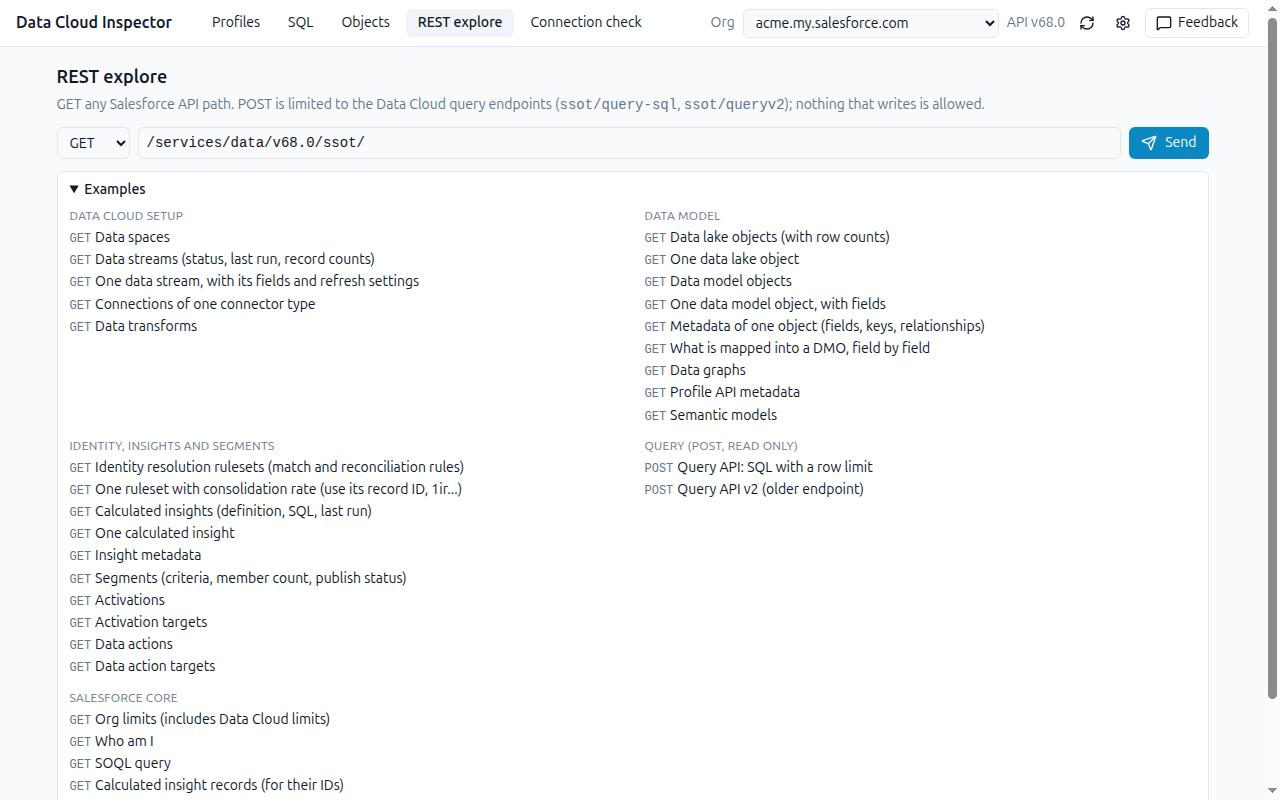
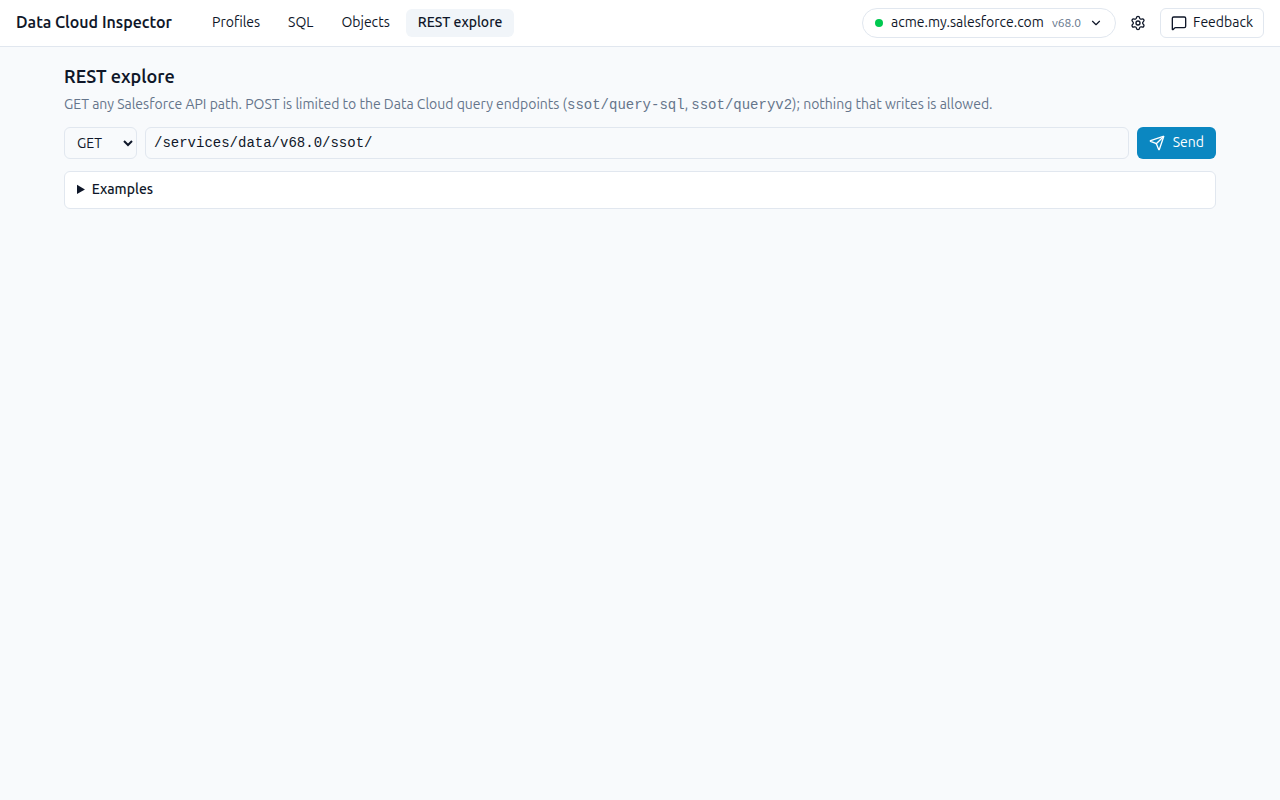
Connection pill, DMO links by API name, folded examples
Feedback #81, #82, #83.
- #83: the org picker and the connection check move into a connection
  pill on the right of the header, as in Marketing Cloud Toolkit.
- #81: DMOs open /lightning/n/standard-DataModel?c__objectApiName=<name>
  (URL from the user; checked live).
- #82: REST explore examples start folded, fold again after a response,
  and only fill in the request.
Store screenshots retaken with the new header.

diff --git a/src/components/ConnectionMenu.vue b/src/components/ConnectionMenu.vue
@@ -1,0 +1,73 @@
+<script setup>
+// Top-bar connection pill and menu, as in Marketing Cloud Toolkit (feedback #83): the org in
+// use with a status dot, the other logged-in orgs, Find orgs again, and the connection check.
+import { ref, computed, onMounted, onUnmounted } from 'vue'
+import { useRouter } from 'vue-router'
+import { ChevronDown, Check, RefreshCw, Stethoscope } from 'lucide-vue-next'
+import { useOrg, loadOrgs, selectOrg, currentOrg } from '../app/useOrg.js'
+
+const org = useOrg()
+const router = useRouter()
+const open = ref(false)
+const root = ref(null)
+
+const status = computed(() => {
+  if (org.loading) return { dot: 'bg-amber-400', text: 'Looking for orgs…' }
+  if (!org.orgs.length) return { dot: 'bg-red-500', text: 'Not connected' }
+  if (org.error) return { dot: 'bg-red-500', text: currentOrg()?.host || 'Not connected' }
+  if (!org.version) return { dot: 'bg-amber-400', text: currentOrg()?.host || 'Connecting…' }
+  return { dot: 'bg-green-500', text: currentOrg()?.host }
+})
+
+function pick(orgId) {
+  selectOrg(orgId)
+  open.value = false
+}
+
+function check() {
+  open.value = false
+  router.push('/connection')
+}
+
+const onDoc = (e) => { if (open.value && root.value && !root.value.contains(e.target)) open.value = false }
+const onKey = (e) => { if (e.key === 'Escape') open.value = false }
+onMounted(() => { document.addEventListener('mousedown', onDoc); document.addEventListener('keydown', onKey) })
+onUnmounted(() => { document.removeEventListener('mousedown', onDoc); document.removeEventListener('keydown', onKey) })
+</script>
+
+<template>
+  <div ref="root" class="relative">
+    <button
+      class="inline-flex items-center gap-2 px-3 py-1 rounded-full border text-sm hover:bg-accent max-w-80"
+      :aria-expanded="open" title="Connection" @click="open = !open"
+    >
+      <span :class="['w-2 h-2 rounded-full shrink-0', status.dot]" />
+      <span class="truncate">{{ status.text }}</span>
+      <span v-if="org.version" class="text-muted-foreground text-xs shrink-0">v{{ org.version }}</span>
+      <ChevronDown class="w-3.5 h-3.5 shrink-0" />
+    </button>
+    <div v-if="open" class="absolute right-0 mt-1 w-96 rounded-md border bg-card shadow-lg z-40 text-sm">
+      <div class="px-3 pt-3 pb-1 text-xs text-muted-foreground">Logged-in orgs in this browser</div>
+      <p v-if="!org.orgs.length" class="px-3 pb-2 text-muted-foreground">
+        None found. Log in to your org (the one with Data Cloud) in this browser, then Find orgs again.
+      </p>
+      <button
+        v-for="o in org.orgs" :key="o.orgId"
+        class="w-full text-left px-3 py-1.5 flex items-center gap-2 hover:bg-accent" @click="pick(o.orgId)"
+      >
+        <Check :class="['w-4 h-4 shrink-0', o.orgId === org.orgId ? '' : 'invisible']" />
+        <span class="truncate">{{ o.host }}</span>
+        <span class="ml-auto font-mono text-xs text-muted-foreground">{{ o.orgId }}</span>
+      </button>
+      <p v-if="org.error" class="px-3 py-1 text-xs text-destructive">{{ org.error }}</p>
+      <div class="border-t mt-1 p-1 flex flex-col">
+        <button class="px-2 py-1.5 rounded flex items-center gap-2 hover:bg-accent" @click="loadOrgs()">
+          <RefreshCw :class="['w-4 h-4', { 'animate-spin': org.loading }]" /> Find orgs again
+        </button>
+        <button class="px-2 py-1.5 rounded flex items-center gap-2 hover:bg-accent" @click="check">
+          <Stethoscope class="w-4 h-4" /> Run the connection check
+        </button>
+      </div>
+    </div>
+  </div>
+</template>

diff --git a/src/app/App.vue b/src/app/App.vue
@@ -1,10 +1,11 @@
 <script setup>
 import { onMounted, ref } from 'vue'
 import { useRoute } from 'vue-router'
-import { RefreshCw, MessageSquare, Settings } from 'lucide-vue-next'
+import { MessageSquare, Settings } from 'lucide-vue-next'
+import ConnectionMenu from '../components/ConnectionMenu.vue'
 import FeedbackModal from '../components/feedback/FeedbackModal.vue'
 import { NAV } from './router.js'
-import { useOrg, loadOrgs, selectOrg } from './useOrg.js'
+import { useOrg, loadOrgs } from './useOrg.js'
 
 const org = useOrg()
 const route = useRoute()
@@ -24,19 +25,7 @@ onMounted(loadOrgs)
         >{{ item.label }}</RouterLink>
       </nav>
       <div class="ml-auto flex items-center gap-2 text-sm">
-        <label for="org" class="text-muted-foreground">Org</label>
-        <select
-          id="org" class="border rounded-md px-2 py-1 bg-background min-w-64"
-          :value="org.orgId" :disabled="!org.orgs.length"
-          @change="selectOrg($event.target.value)"
-        >
-          <option v-if="!org.orgs.length" :value="null">No logged-in org found</option>
-          <option v-for="o in org.orgs" :key="o.orgId" :value="o.orgId">{{ o.host }}</option>
-        </select>
-        <span v-if="org.version" class="text-muted-foreground">API v{{ org.version }}</span>
-        <button class="p-1.5 rounded-md hover:bg-accent" title="Find logged-in orgs again" @click="loadOrgs">
-          <RefreshCw class="w-4 h-4" :class="{ 'animate-spin': org.loading }" />
-        </button>
+        <ConnectionMenu />
         <RouterLink to="/settings" class="p-1.5 rounded-md hover:bg-accent" active-class="bg-accent" title="Settings"><Settings class="w-4 h-4" /></RouterLink>
         <button class="inline-flex items-center gap-1.5 px-2.5 py-1 rounded-md border hover:bg-accent" title="Report a problem or send an idea" @click="feedback = true">
           <MessageSquare class="w-4 h-4" /> Feedback
@@ -46,7 +35,7 @@ onMounted(loadOrgs)
 
     <div v-if="!org.loading && !org.orgs.length" class="m-4 p-4 rounded-md border bg-card text-sm">
       No Salesforce session found. Log in to your org (the one with Data Cloud) in this browser,
-      then click the refresh button. Data Cloud Inspector uses that login and only reads.
+      then choose Find orgs again in the connection menu (top right). Data Cloud Inspector uses that login and only reads.
     </div>
     <div v-else-if="org.error" class="m-4 p-3 rounded-md border border-destructive text-sm">
       Could not reach the org: {{ org.error }}

diff --git a/src/views/ObjectsView.vue b/src/views/ObjectsView.vue
@@ -3,7 +3,7 @@ import { ref, reactive, computed, watch, onMounted } from 'vue'
 import { useRoute, useRouter } from 'vue-router'
 import { RefreshCw, Play, Copy, FileText, Hash, Key, ExternalLink } from 'lucide-vue-next'
 import { useOrg, currentOrg } from '../app/useOrg.js'
-import { recordUrl, dmoTabUrl } from '../lib/links.js'
+import { recordUrl, dmoUrl } from '../lib/links.js'
 import { useCatalog, ensureCatalog, ensureStreams, ensureAllMappings, ensureRecordIds, orgCall } from '../app/useCatalog.js'
 import { filterObjects, selectFor, objectMarkdown } from '../lib/catalog.js'
 import { loadMappings } from '../lib/lineage.js'
@@ -27,11 +27,10 @@ const feeds = ref(null) // DMOs a DLO maps to
 onMounted(() => { ensureCatalog() })
 watch(() => route.params.name, (n) => { if (n) ensureRecordIds() }, { immediate: true })
 
-// DLOs and CIs open their record page; DMO record pages have no URL we can build, so
-// DMOs open the Data Model Objects tab.
+// DLOs and CIs open their record page; DMOs open in the Data Model tab by API name.
 function sfUrl(o) {
   const host = currentOrg()?.host
-  if (o.kind === 'DMO') return dmoTabUrl(host)
+  if (o.kind === 'DMO') return dmoUrl(host, o.name)
   const id = catalog.recordIds?.[o.name]
   return id ? recordUrl(host, id) : null
 }
@@ -173,7 +172,7 @@ const tabBtn = (t) => ['px-3 py-1.5 text-sm border-b-2', tab.value === t ? 'bord
             </div>
           </div>
           <div class="ml-auto flex flex-wrap gap-2">
-            <a v-if="sfUrl(selected)" :class="btn" :href="sfUrl(selected)" target="_blank" rel="noopener" :title="selected.kind === 'DMO' ? 'Opens the Data Model Objects tab (a DMO page has no direct link)' : 'Open this object in Data Cloud'"><ExternalLink class="w-4 h-4" /> Open in Salesforce</a>
+            <a v-if="sfUrl(selected)" :class="btn" :href="sfUrl(selected)" target="_blank" rel="noopener"  title="Open this object in Data Cloud"><ExternalLink class="w-4 h-4" /> Open in Salesforce</a>
             <button :class="btn" @click="query(selected)"><Play class="w-4 h-4" /> Query</button>
             <button :class="btn" :disabled="counts[selected.name] === 'counting'" @click="count(selected)"><Hash class="w-4 h-4" /> {{ counts[selected.name] === 'counting' ? 'Counting…' : 'Count rows' }}</button>
             <button :class="btn" @click="copy(selectFor(selected), 'the SELECT')"><Copy class="w-4 h-4" /> Copy SELECT</button>

diff --git a/src/views/ExploreView.vue b/src/views/ExploreView.vue
@@ -16,7 +16,9 @@ const busy = ref(false)
 const showShape = ref(false)
 const pathInput = ref(null)
 
-// Fill the form from an example; a NAME placeholder is selected for typing over.
+// Fill the form from an example without sending it (feedback #82); a NAME placeholder is
+// selected for typing over.
+const examplesOpen = ref(false)
 function useExample(item) {
   if (!org.version) return
   method.value = item.method || 'GET'
@@ -26,7 +28,6 @@ function useExample(item) {
   requestAnimationFrame(() => {
     pathInput.value?.focus()
     if (at >= 0) pathInput.value?.setSelectionRange(at, at + 4)
-    else sendRequest()
   })
 }
 
@@ -49,6 +50,7 @@ async function sendRequest() {
   }
   busy.value = true
   result.value = await sf(org.orgId, path.value.trim(), { method: method.value, body: parsed })
+  examplesOpen.value = false
   busy.value = false
 }
 
@@ -84,7 +86,7 @@ const text = computed(() => {
       v-if="method === 'POST'" v-model="body" rows="5" spellcheck="false"
       class="w-full border rounded-md p-2 bg-background font-mono text-xs"
     />
-    <details class="border rounded-md bg-card" :open="!result">
+    <details class="border rounded-md bg-card" :open="examplesOpen" @toggle="examplesOpen = $event.target.open">
       <summary class="px-3 py-2 cursor-pointer text-sm font-medium">Examples</summary>
       <div class="px-3 pb-3 grid md:grid-cols-2 gap-x-6 gap-y-3">
         <div v-for="g in EXAMPLES" :key="g.group">
@@ -98,7 +100,7 @@ const text = computed(() => {
           </ul>
         </div>
       </div>
-      <p class="px-3 pb-3 text-xs text-muted-foreground">Click one to send it. Examples with NAME in the path select that word for you to replace first, then press Send.</p>
+      <p class="px-3 pb-3 text-xs text-muted-foreground">Click one to fill in the request, then press Send. Where the path has NAME, that word is selected for you to replace.</p>
     </details>
     <div v-if="result" class="space-y-2">
       <div class="flex items-center gap-3 text-sm">

diff --git a/src/lib/links.js b/src/lib/links.js
@@ -1,8 +1,8 @@
 // Links into the org's own UI. https://<my domain>/<record id> redirects to the record's
 // Lightning page; checked on a live org (2026-10-22) for data streams (1ds), DLOs (1dl),
 // calculated insights (0kX), segments (1sg), identity resolution rulesets (1ir),
-// activation targets (85U) and CRM records. DMO IDs (0gj) only reach the home page, so DMOs
-// open the Data Model Objects tab.
+// activation targets (85U) and CRM records. DMO IDs (0gj) only reach the home page; a DMO
+// opens in the Data Model tab by API name (URL from the user, feedback #81).
 
 const PREFIXES = {
   '1ds': 'Data stream',
@@ -31,8 +31,12 @@ export function recordUrl(host, id) {
   return host && id ? `https://${host}/${id}` : null
 }
 
-export function dmoTabUrl(host) {
-  return host ? `https://${host.replace(/\.my\.salesforce\.com$/, '.lightning.force.com')}/lightning/o/MktDataModelObject/home` : null
+export function lightningHost(host) {
+  return String(host || '').replace(/\.my\.salesforce\.com$/, '.lightning.force.com')
+}
+
+export function dmoUrl(host, apiName) {
+  return host && apiName ? `https://${lightningHost(host)}/lightning/n/standard-DataModel?c__objectApiName=${encodeURIComponent(apiName)}` : null
 }
 
 /** Record IDs of DLOs, DMOs and calculated insights by API name (the metadata has none). */

diff --git a/src/lib/__tests__/links.test.js b/src/lib/__tests__/links.test.js
@@ -1,4 +1,4 @@
-import { recordKind, recordUrl, dmoTabUrl, loadRecordIds } from '../links.js'
+import { recordKind, recordUrl, dmoUrl, loadRecordIds } from '../links.js'
 import { fetchAllPages } from '../pages.js'
 import { EXAMPLES, examplePath } from '../exploreExamples.js'
 
@@ -14,7 +14,7 @@ describe('links', () => {
   it('builds org URLs', () => {
     expect(recordUrl('acme.my.salesforce.com', '1ds000000000001AAA')).toBe('https://acme.my.salesforce.com/1ds000000000001AAA')
     expect(recordUrl(null, 'x')).toBeNull()
-    expect(dmoTabUrl('acme--uat.sandbox.my.salesforce.com')).toBe('https://acme--uat.sandbox.lightning.force.com/lightning/o/MktDataModelObject/home')
+    expect(dmoUrl('acme--uat.sandbox.my.salesforce.com', 'ssot__AccountContact__dlm')).toBe('https://acme--uat.sandbox.lightning.force.com/lightning/n/standard-DataModel?c__objectApiName=ssot__AccountContact__dlm')
   })
   it('collects DLO, DMO and CI record IDs by API name', async () => {
     const call = async (path) => {

diff --git a/src/app/router.js b/src/app/router.js
@@ -11,7 +11,6 @@ export const NAV = [
   { path: '/sql', label: 'SQL' },
   { path: '/objects', label: 'Objects' },
   { path: '/explore', label: 'REST explore' },
-  { path: '/connection', label: 'Connection check' },
 ]
 
 export function createAppRouter() {

diff --git a/README.md b/README.md
@@ -23,9 +23,10 @@ Status: early, test builds only.
   Copy SELECT and Copy as Markdown.
 - Open in Salesforce: record IDs in profiles, related records and SQL results (segments,
   streams, DLOs, calculated insights, rulesets, activation targets, Contacts, Accounts) link
-  to their page in the org; Objects has Open in Salesforce (DMOs open the Data Model tab).
-- REST explore with clickable examples, and a connection check (shareable report with
-  response shapes only).
+  to their page in the org; Objects has Open in Salesforce (DMOs open in the Data Model tab by API name).
+- Connection pill (top right): the org in use and its status, other logged-in orgs, and a
+  connection check with a shareable report (response shapes only).
+- REST explore with examples that fill in the request.
 - Settings: System, Light or Dark theme; cached metadata per org (clear); export and import
   saved queries; clear history; forget the feedback contact.
 - Feedback (header button): problem, idea or question, an optional marked-up screenshot and
